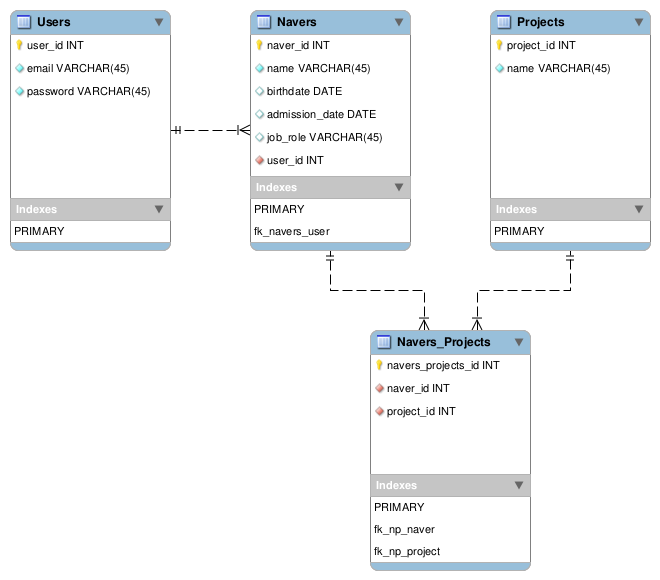
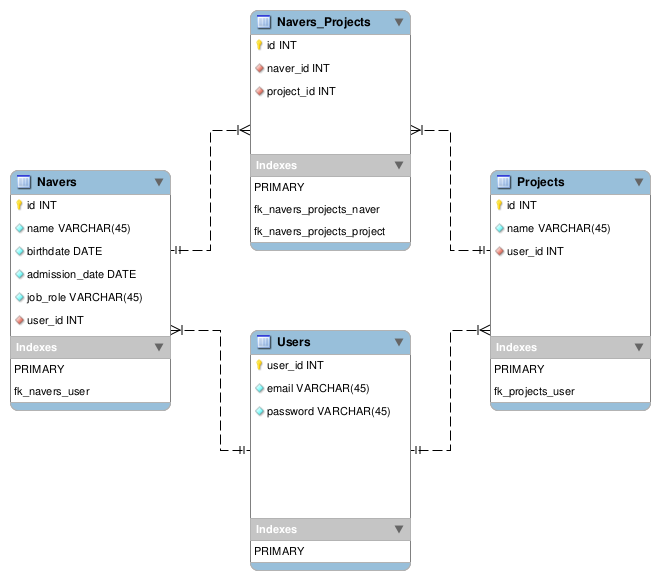
docs: update README

diff --git a/README.md b/README.md
@@ -1,57 +1,29 @@
-# Navedex API | Nave.rs
+# Navedex API
 
-## Requisitos
+Desafio para a vaga de Backend Júnior da empresa Nave.rs.
 
-- [x] Deve ser possível cadastrar um usuário
-- [x] Deve ser possível realizar o login com um usuário
+## Estruturação do Banco de Dados
 
-## Etapas
-
-- [x] Criar a classe de Naver e fazer o relacionamento 1:N com o User (feito)
-- [x] Cadastrar um Naver sem o campo projects (feito)
-- [x] Criar a classe de Product (não feito)
-- [] Cadastrar um Product (não feito)
-- [] Criar a classe de NaverProduct e fazer o relacionamento N:M com a classe de Naver e com a classe de Product (não feito)
-- [] Por fim, cadastrar novamente um Naver com o campo "projects: []"
-
-## Estruturação das tabelas do banco de dados
-
-Aqui fica a imagem do DER
+<img src="./.github/nave-challenge-database.png">
 
 <br>
-
-## Como utilizar o projeto
-
-Rodar as `migrations` do banco de dados:
-
-`yarn typeorm migration:run`
-
 <br>
 
-## Ferramentas e Tecnologias utilizadas
+## Dificuldades
+  - Entender inicialmente como ficaria a estruturação das tabelas do banco. Depois de um tempo pensando um pouco e raciocinando melhor, ficou mais claro como devia ficar.
 
- - Express
- - Docker, Docker Compose
- - TypeORM
+  <br>
 
-<br>
+  - Criar a relação entre Naver's e Project's, bem como como realizar o cadastro de um Naver com nenhum ou + Projects, e vice-versa. Pesquisando a respeito, a melhor escolha para mim seria utilizar a anotação `@ManyToMany` do TypeORM, onde o trabalho de cadastro dessas entidades ficou mais fácil.
 
-## Comandos úteis
+  <br>
 
-Ver os dados do banco de dados:
+  - Criar a lógica por trás da filtragem (por `name`, `birthdate` e `admission_date`) de Naver's. No final, para resolver isso, criei métodos para buscar os Naver's cada qual com sua propriedade específica:
+    - `findAllByName`
+    - `findAllByAdmissionDate`
+    - `findAllByJobRole`
 
-```shell
-## Entra dentro do container do postgres
-sudo docker exec -it nave /bin/bash
+    Dessa forma, a manipulação e verificação desses dados se tornou mais fácil.
 
-## Depois de entrar no container, use o PSQL para realizar a conexão com o banco de dados
-psql nave postgres
 
-## Feito isso, só usar os comandos do PSQL para ver as mudanças feitas
-\d
-\dt
-select * from users;
-select * from navers;
-select * from projects;
-...
-```
+
